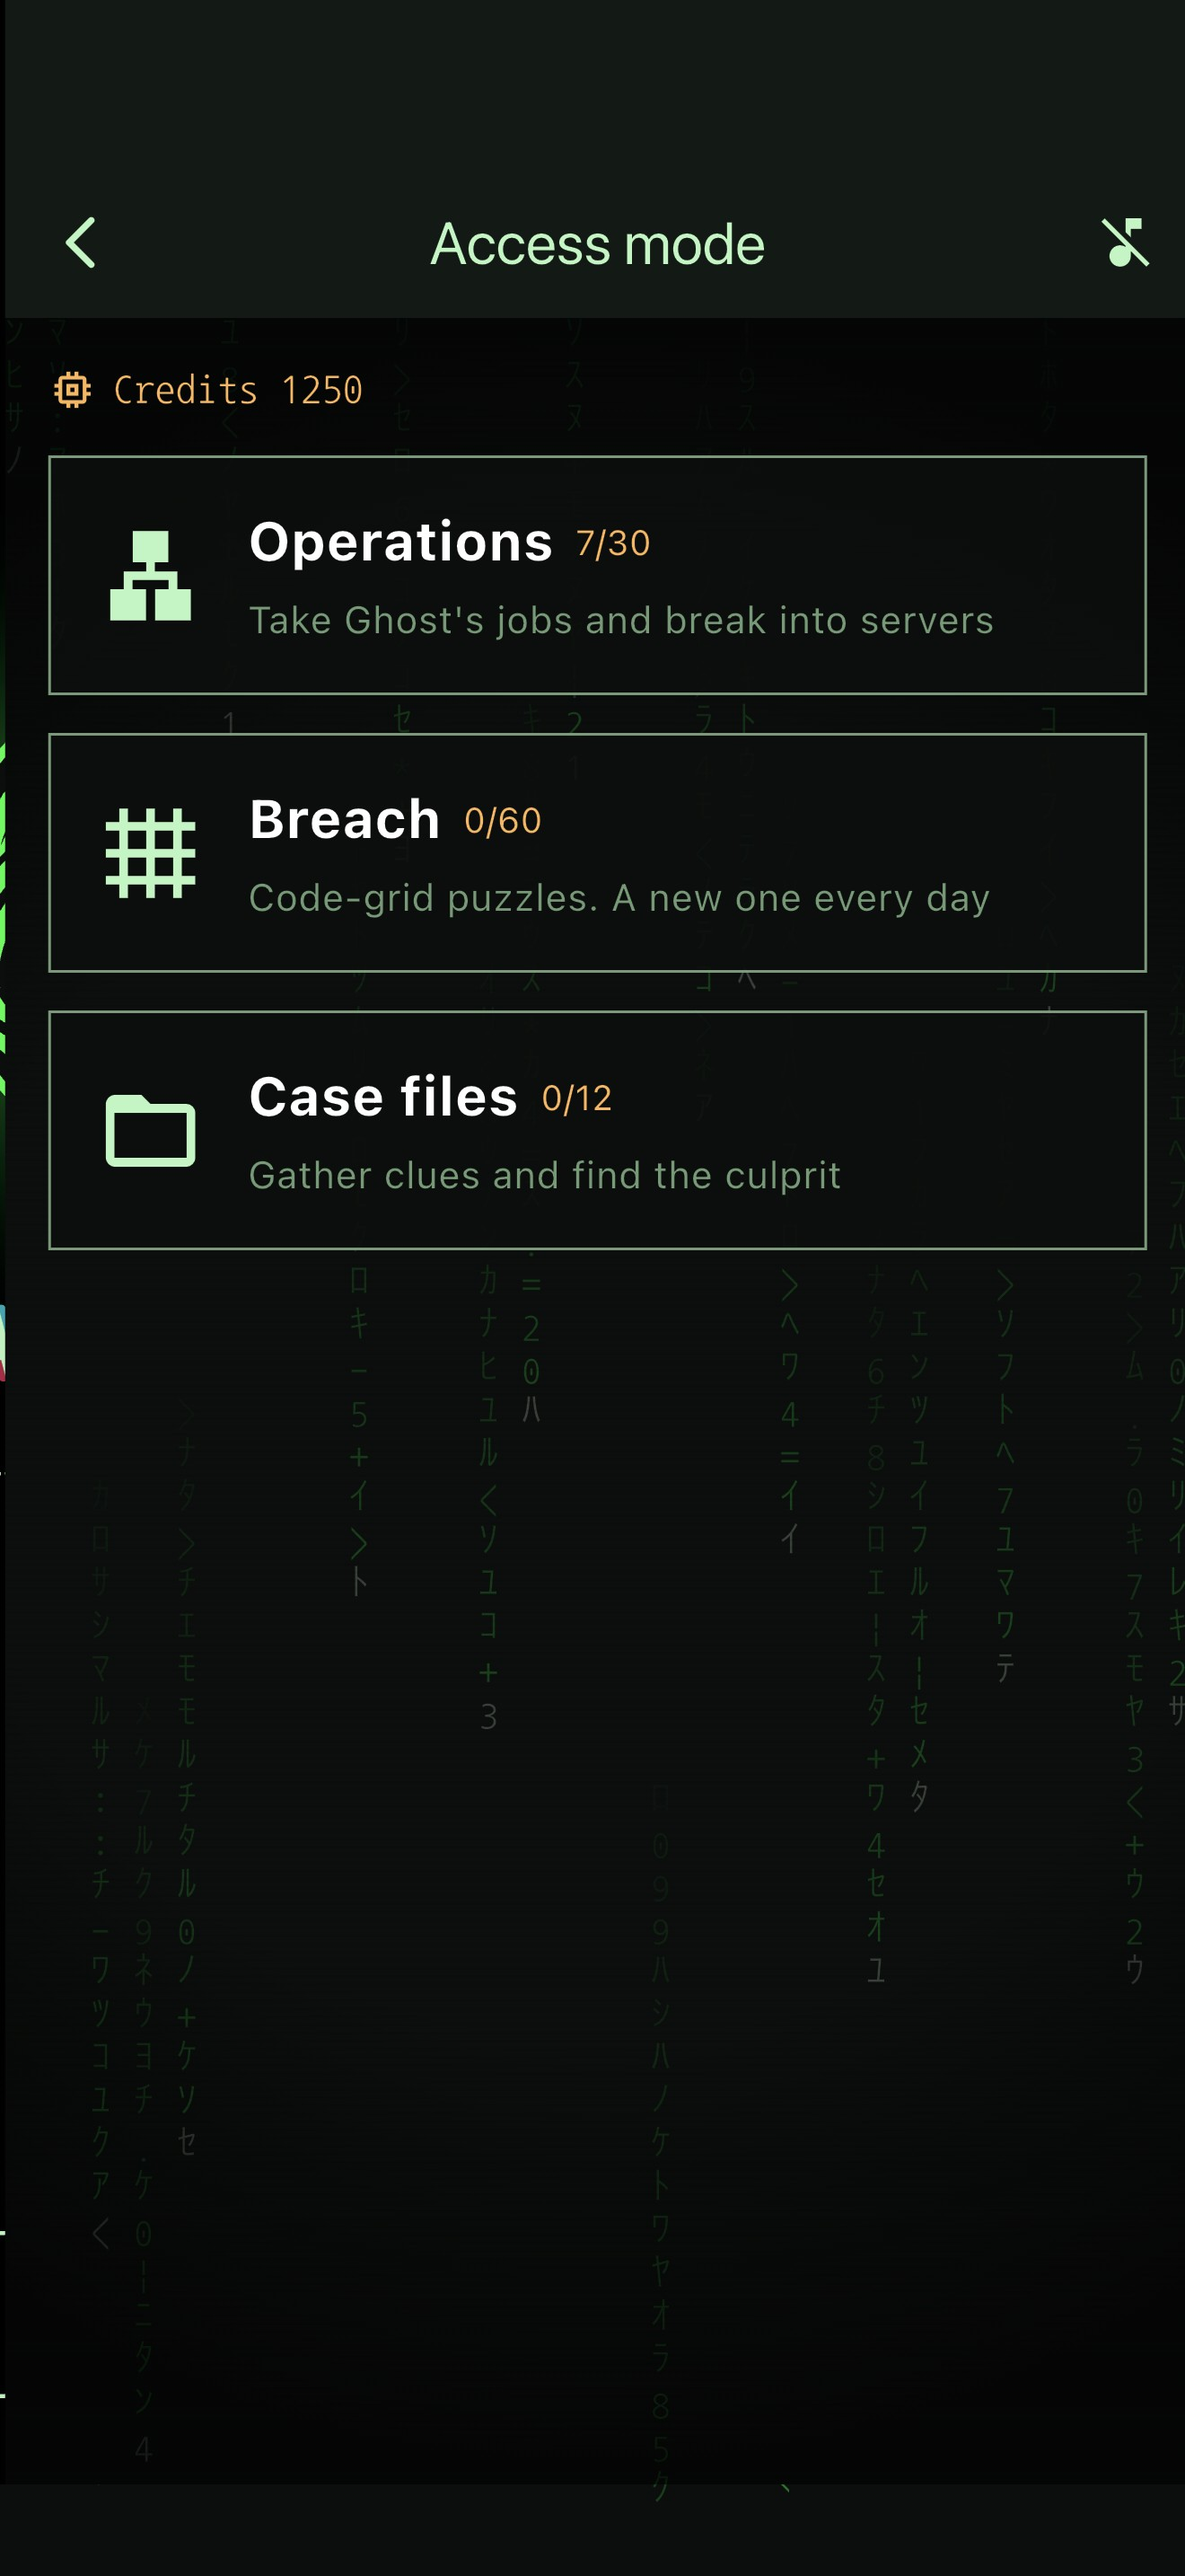
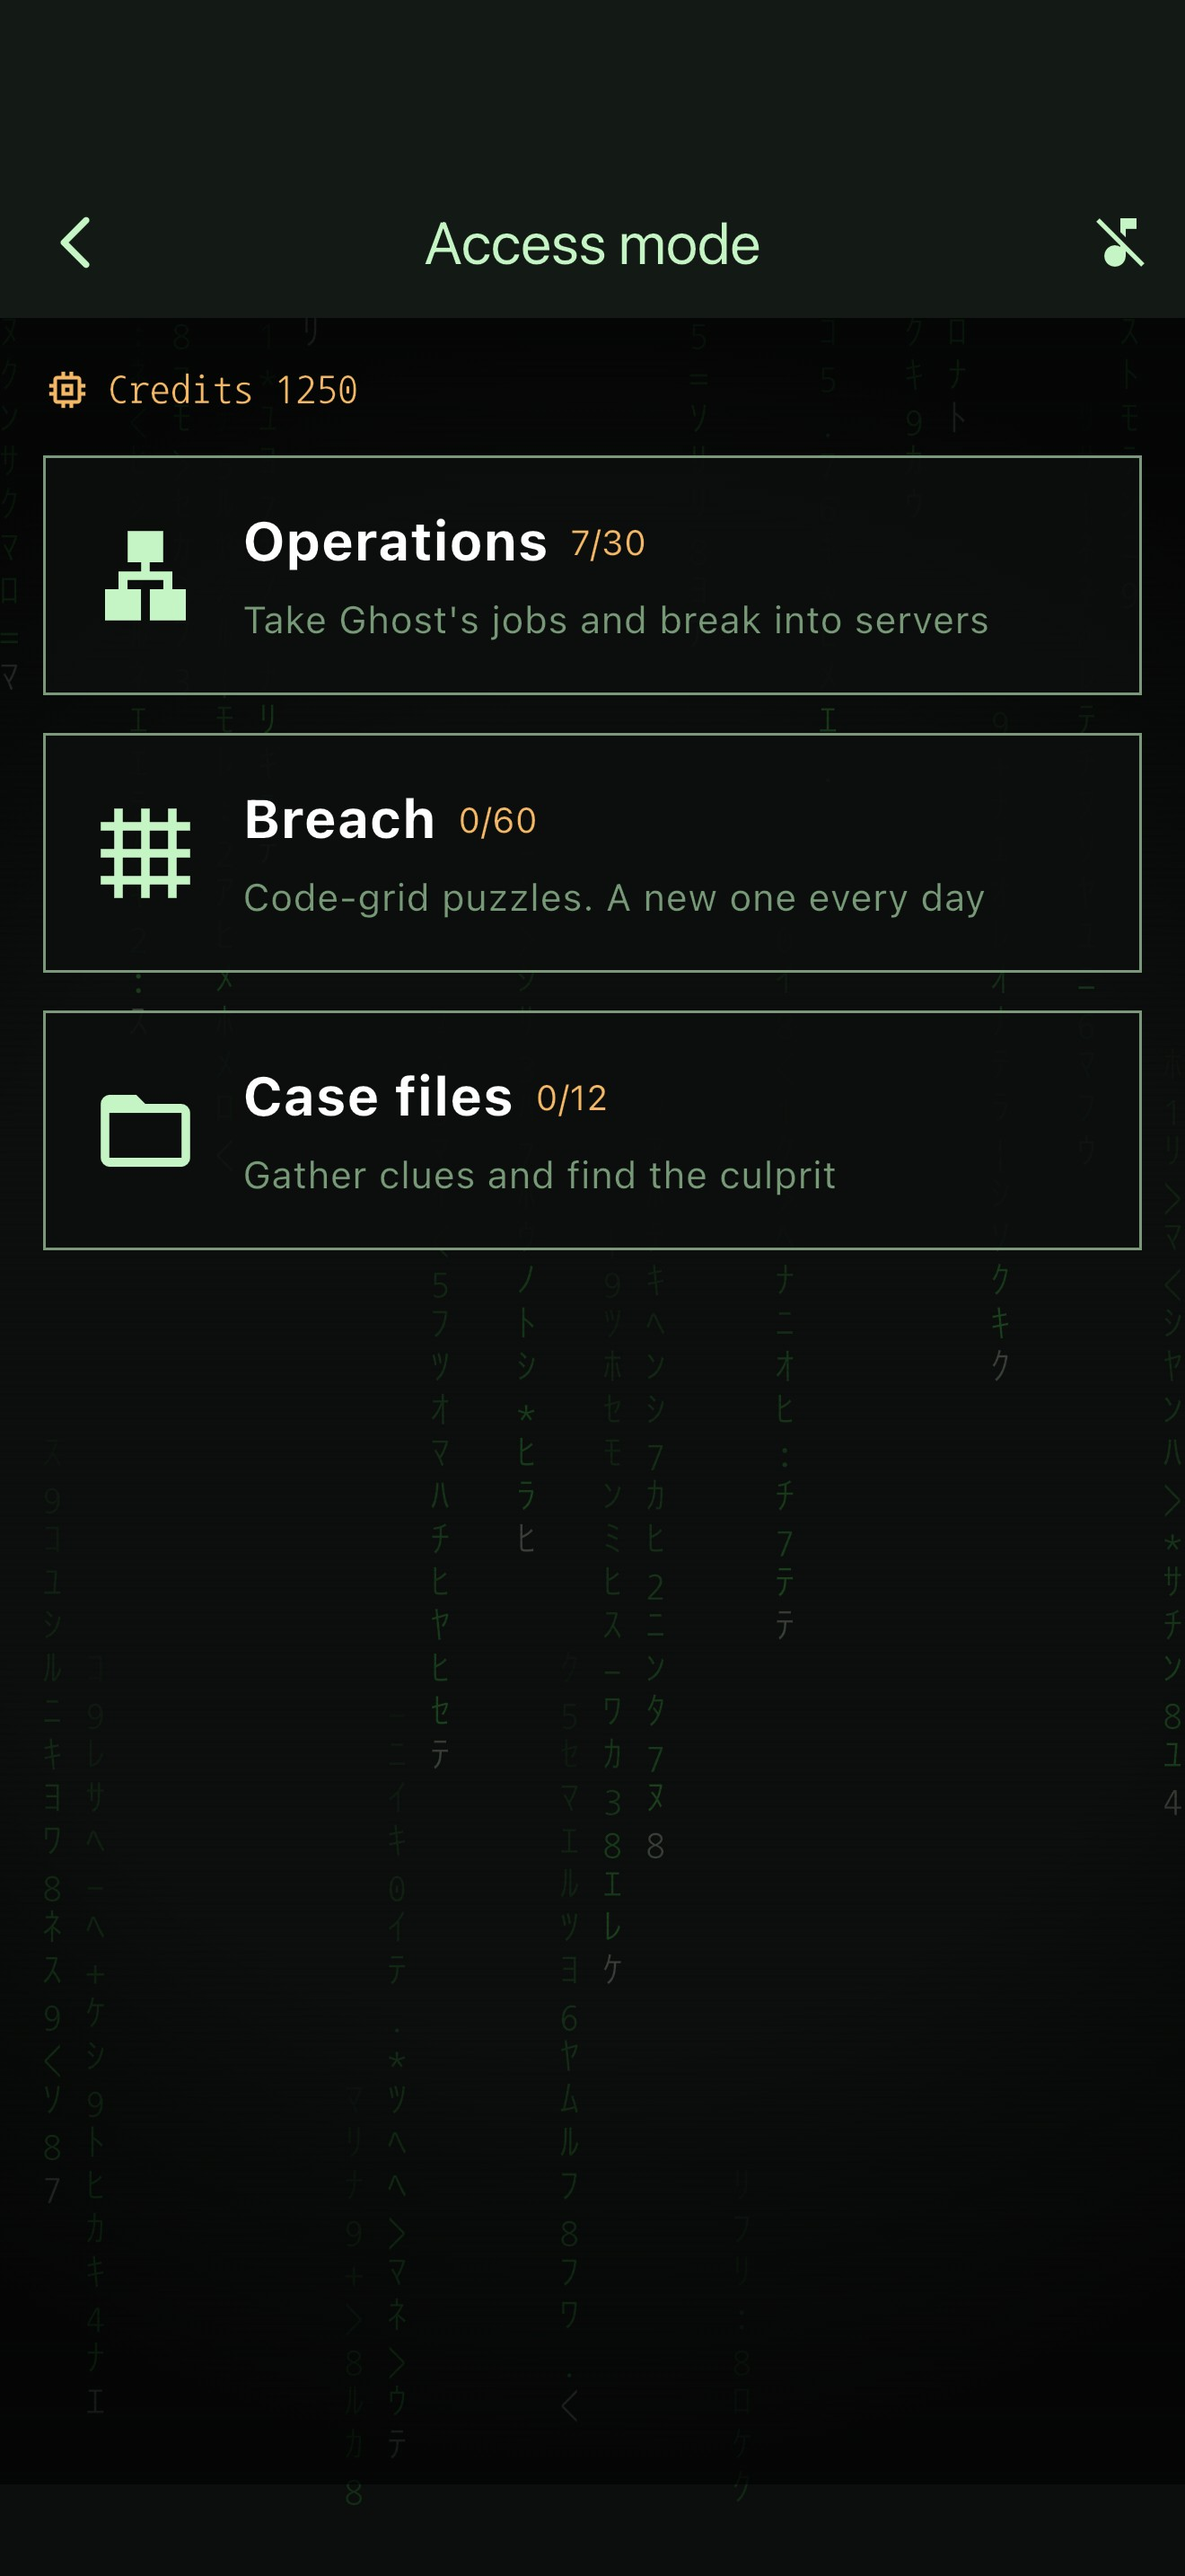
아이폰: 폰 시험 안내서, 스토어 스크린샷 다시 찍음(새 터미널 글 모양), 찍는 동안 계속 그려 화면 전환 잔상이 안 남게

diff --git a/integration_test/store_shots_test.dart b/integration_test/store_shots_test.dart
@@ -37,10 +37,14 @@ void main() {
   testWidgets('스토어 스크린샷', (t) async {
     final catalog = await Catalog.load();
 
+    // 실제 폰처럼 기다리는 동안 계속 그린다. 두 번만 그리면 화면 전환이 덜 끝난 채 찍혀 왼쪽 끝에 앞 화면이 비친다.
     Future<void> wait(int ms) async {
+      final end = DateTime.now().add(Duration(milliseconds: ms));
       await t.pump();
-      await Future<void>.delayed(Duration(milliseconds: ms));
-      await t.pump();
+      while (DateTime.now().isBefore(end)) {
+        await Future<void>.delayed(const Duration(milliseconds: 50));
+        await t.pump();
+      }
     }
 
     Future<void> shot(String lang, String name) async {

diff --git a/integration_test/screen_tour_test.dart b/integration_test/screen_tour_test.dart
@@ -42,10 +42,14 @@ void main() {
     var lang = 'ko';
     var n = 0;
 
+    // 실제 폰처럼 기다리는 동안 계속 그린다. 두 번만 그리면 화면 전환이 덜 끝난 채 찍혀 왼쪽 끝에 앞 화면이 비친다.
     Future<void> wait(int ms) async {
+      final end = DateTime.now().add(Duration(milliseconds: ms));
       await t.pump();
-      await Future<void>.delayed(Duration(milliseconds: ms));
-      await t.pump();
+      while (DateTime.now().isBefore(end)) {
+        await Future<void>.delayed(const Duration(milliseconds: 50));
+        await t.pump();
+      }
     }
 
     Future<void> shot(String name) async {

diff --git a/store/ios/아이폰-테스트-방법.md b/store/ios/아이폰-테스트-방법.md
@@ -1,0 +1,34 @@
+# 아이폰 테스트 방법 (출시 전)
+
+앱스토어에는 아직 아무것도 만들지 않았다(앱 등록·업로드 전). 폰에서 직접 해 보고 괜찮으면 `앱스토어-작성내용.md` 0번 순서대로 낸다.
+
+## 1. 폰에 깔기 (맥에 USB 로 연결)
+
+```bash
+cd ~/work/PeepHack
+~/flutter/bin/flutter build ios --release
+xcrun devicectl list devices                       # 내 아이폰 Identifier 확인
+xcrun devicectl device install app --device <Identifier> build/ios/iphoneos/Runner.app
+```
+
+출시판(release)과 같은 모습이다(디버그 전용 기능 없음). 처음이면 폰의 설정 → 일반 → VPN 및 기기 관리에서 개발자 앱을 신뢰해야 열린다.
+진행 기록을 지우고 처음부터 보려면 앱을 지우고 다시 깐다.
+
+## 2. 아이폰에서 꼭 볼 것 (시뮬레이터로는 확인이 안 되는 것)
+
+- [ ] **키보드** — 3장부터 키보드로 친다. 영문 자판으로 뜨는지, `'` `"` 가 둥근 따옴표로 안 바뀌는지, 첫 글자가 대문자로 안 바뀌는지
+- [ ] **비밀번호 칸** — 아이폰 「암호」 자동 완성 줄이 거슬리지 않는지
+- [ ] **소리** — 효과음·배경음악. 다른 앱 음악을 틀어 둔 채 켜면 음악이 안 끊기는지, 무음 스위치를 켜면 조용한지
+- [ ] **진동** — 칸 누를 때·목표 완료·실패
+- [ ] **화면** — 노치·홈 막대에 가리는 단추가 없는지, 키보드가 열리면 지도가 접히고 입력줄이 보이는지
+- [ ] **뒤로 가기** — 화면 왼쪽 끝에서 오른쪽으로 쓸면 앞 화면으로 간다(안드로이드 뒤로 단추와 같은 동작). 임무 중에 실수로 나가지 않는지
+- [ ] **앱 전환** — 홈으로 나갔다 오면 음악이 멈췄다 이어지는지
+- [ ] **언어** — 폰 언어가 영어면 영어로 뜨는지, 설정에서 바꾸면 바로 바뀌는지
+
+시뮬레이터에서는 이미 확인함: 아이폰 SE(작은 화면)·17 Pro Max 에서 27개 화면 × 한국어·영어 글자 넘침 없음(`tool/ios_screen_tour.sh`),
+전체 단위 시험, 서명된 출시 ipa 만들기(`tool/ios_archive.sh`).
+
+## 3. 고칠 것이 생기면
+
+Dart 코드는 안드로이드와 같은 코드다 — 고치면 두 플랫폼에 같이 들어간다. 아이폰만 다른 곳은 README 「아이폰」 절.
+화면을 바꿨으면 `tool/ios_store_shots.sh` 로 스토어 스크린샷을 다시 찍는다.

diff --git a/store/ios/앱스토어-작성내용.md b/store/ios/앱스토어-작성내용.md
@@ -1,12 +1,13 @@
 # 앱스토어 작성 내용 (아이폰)
 
-App Store Connect 에 넣을 값. 안드로이드 등록 문구(`store/listing_ko.md`·`listing_en.md`)에서 옮겼고,
+App Store Connect 에 넣을 값(2026-10-14 기준 아직 앱을 만들지 않았다). 같은 값이 `appstore-listing.json` 에도 있다(페이지 안 요청으로 넣을 때). 안드로이드 등록 문구(`store/listing_ko.md`·`listing_en.md`)에서 옮겼고,
 앱스토어 칸 규격(이름·부제 30자, 키워드 100자)에 맞췄다. 스크린샷은 `store/ios/screenshots/<언어>/`(1320×2868, `tool/ios_store_shots.sh`).
 
 ## 0. 순서
 
 | # | 할 일 | 누가 |
 |---|---|---|
+| 0 | 폰에서 직접 테스트 — `아이폰-테스트-방법.md` | 소유자 |
 | 1 | developer.apple.com → Identifiers 에 `com.peep.hack` (없으면 업로드 때 Xcode 가 만든다) | 자동/소유자 |
 | 2 | App Store Connect → 새 앱: 플랫폼 iOS, 이름 「HackQuest - Hacking Puzzles」, 기본 언어 영어(미국), 번들 ID `com.peep.hack`, SKU `hackquest-ios` | |
 | 3 | 보관·업로드: `tool/ios_archive.sh upload` (버전은 `pubspec.yaml` 그대로) | |

diff --git a/README.md b/README.md
@@ -47,6 +47,7 @@ tool/ios_screen_tour.sh                # 아이폰 SE·17 Pro Max 에서 모든 
 tool/ios_archive.sh upload             # 보관 + App Store Connect 업로드
 ```
 
+- 폰에 깔아 시험하는 법과 아이폰에서 꼭 볼 것: `store/ios/아이폰-테스트-방법.md`.
 - 앱스토어 문구·설문·심사 메모: `store/ios/앱스토어-작성내용.md`. 개인정보처리방침은 legal 저장소 `hackquest/`.
 - 아이폰에서만 다른 것: 명령 입력칸의 둥근 따옴표·긴 줄표 자동 바꾸기를 끈다(`input_bar.dart`), 소리는 ambient 세션
   (듣던 음악과 섞이고 무음 스위치를 따른다), 「다른 게임」 단추는 아직 "준비 중" 이라 아이폰에서 숨긴다(심사 2.1·2.3.10).
